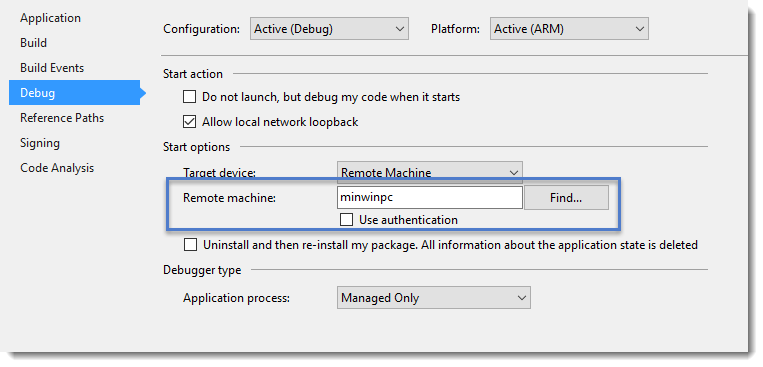
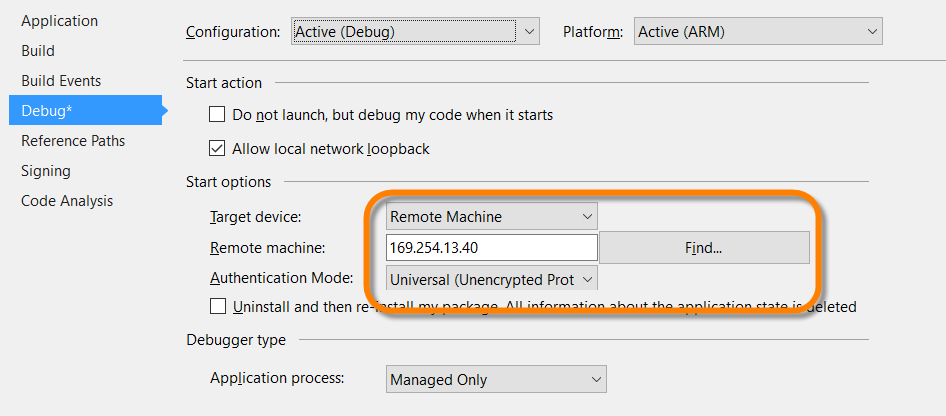
Corrected GHI Fez Hat project debug docs
Clarified and corrected GHI FEZ Hat project debugging instructions.

Build 10.0.10586 and later of Windows 10 IoT Core now requires the
"Universal (Unencrypted protocol)" authentication method for remote
debug rather than "None".

Added a build early on to correct IntelliSense errors when reviewing the
code.

Streamlined the debug workflow at the end.

diff --git a/Devices/DirectlyConnectedDevices/WindowsIoTCorePi2FezHat-IoTHubs/README.md b/Devices/DirectlyConnectedDevices/WindowsIoTCorePi2FezHat-IoTHubs/README.md
@@ -254,13 +254,33 @@ Now that the device is configured, you will see how to create an application to 
 ### Read FEZ HAT sensors
 In order to get the information out of the hat sensors, you will take advantage of the [Developers' Guide](https://www.ghielectronics.com/docs/329/fez-hat-developers-guide "GHI Electronics FEZ HAT Developer's Guide") that [GHI Electronics](https://www.ghielectronics.com/ "GHI Electronics")  published.
 
-1. Download the [zipped repository](https://bitbucket.org/ghi_elect/windows-iot/get/183b64180b7c.zip "Download FEZ HAT Developers' Guide repository"), extract the files in your file system and locate the _GHIElectronics.UAP.sln_ solution file (You must have **Visual Studio** installed in order to open the solution).
+1. Download the [zipped repository](https://bitbucket.org/ghi_elect/windows-iot/get/183b64180b7c.zip "Download FEZ HAT Developers' Guide repository")
+
+1. Unblock the .zip file before extracting it. Unblocking the .zip file will keep Visual Studio from prompting you about "Trustworthy Sources". To Unblock the .zip file:
+
+	- Right click on the downloaded .zip file
+	- Select "**Properties**" from the popup menu. 
+	- In the "**Properties**" window, on the "**General**" tab, turn on the checkbox labeled "**Unblock**"
+	- Click "**OK**"
+
+1. Extract the files in your file system and locate the _GHIElectronics.UAP.sln_ solution file (You must have **Visual Studio** installed in order to open the solution).
 
 2. After opening the solution you will see several projects. The _Developers's Guide_ comes with examples of many of the shields provided by the company. Right-click the one named _GHIElectronics.UAP.Examples.FEZHAT_, and select **Set as Startup Project**.
 
 	![Set FEZ HAT examples project as default](Images/set-fez-hat-examples-project-as-default.png?raw=true)
 
 	_Setting the FEZ hat example as the default project_
+
+1. Ensure that the target platform for the project is set to "**ARM**":
+
+	![arm-target-platform](images/arm-target-platform.png?raw=true)
+
+1. Build the solution to restore the NuGet packages, and make sure it builds:
+
+	![ghifezhat-build-solution](images/ghifezhat-build-solution.png?raw=true)
+
+	![ghifezhat-build-succeeded](images/ghifezhat-build-succeeded.png?raw=true)
+
 
 	> **Note:** Now you will inspect the sample code to see how it works. Bear in mind that this example is intended to show all the available features of the shield, while in this lab you will use just a couple of them (temperature and light sensors).
 
@@ -316,7 +336,7 @@ In order to get the information out of the hat sensors, you will take advantage 
 
 6. If the device is not auto-detected, the Raspberry Pi IP or name can be entered in the **Address** field. Otherwise, click the desired device. Change the **Authentication Mode** to **None**:
 
-	![Set Authentication mode to None](Images/set-authentication-mode-to-none.png?raw=true)
+	![Set Authentication mode to Universal](Images/set-authentication-mode-to-universal.png?raw=true)
 
 	_Setting the Authentication Mode_
 
@@ -328,7 +348,7 @@ In order to get the information out of the hat sensors, you will take advantage 
 
 	> **Note:** Clicking the **Find** button will display the **Remote Connection** screen.
 
-8. If the program is successfully deployed to the device, the current value of the different sensors will be displayed on the screen. The shield leds will also be turned on and off alternately. If you don't have a screen connected to the _Raspberry_, you can add the following code to the **OnTick** method in order to show the value of the sensors in the Visual Studio **Output Console**.  (Insert the code after reading the sensors).
+1. If you don't have a screen connected to the _Raspberry_, you can add the following code to the **OnTick** method in order to show the value of the sensors in the Visual Studio **Output Console**.  (Insert the code after reading the sensors).
 
 	````C#
 	// Add diagnostics information
@@ -339,6 +359,15 @@ In order to get the information out of the hat sensors, you will take advantage 
 	    this.Button18TextBox.Text,
 	    this.Button22TextBox.Text);
 	````
+
+
+1. Click the debug button to start the deployment to the Raspberry Pi.  The first deployment will take some time as the remote debug tools, frameworks, and your code all need to be deployed.  This could take up to a couple of minutes to completely deploy.  You can monitor the status in the Visual Studio "**Output**" window.
+
+	![debug-ghifezhat](images/debug-ghifezhat.png?raw=true)
+
+8. If the program is successfully deployed to the device, the current value of the different sensors will be displayed on the screen. The shield leds will also be turned on and off alternately. In addition, if you added the Debug.Writeline code above to the OnTick method, the "**Output**" window will display sensor data:
+
+	![ghifezhat-debug-output](images/ghifezhat-debug-output.png?raw=true)
 
 <a name="Task22" />
 ### Send telemetry data to the Azure IoT Hub
